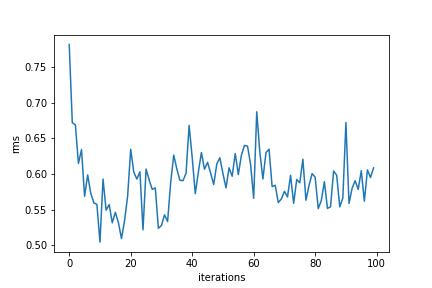
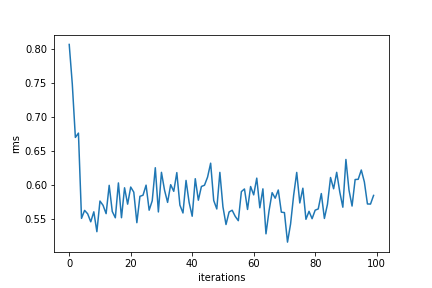
finish TP2

diff --git a/TP2/code/ICP.py b/TP2/code/ICP.py
@@ -143,7 +143,7 @@ def icp_point_to_point(data, ref, max_iter, RMS_threshold):
 
     return data_aligned, R_list, T_list, neighbors_list, rms_list
 
-def icp_point_to_point_stochastic(data, ref, max_iter, RMS_threshold, sampling_limit=1000):
+def icp_point_to_point_stochastic(data, ref, max_iter, RMS_threshold, sampling_limit=1000, final_overlap=1):
     '''
     Iterative closest point algorithm with a point to point strategy.
     Inputs :
@@ -183,14 +183,25 @@ def icp_point_to_point_stochastic(data, ref, max_iter, RMS_threshold, sampling_l
         data_aligned_sampled_indices = np.random.choice(np.arange(data_aligned.shape[1]), size=sampling_limit, replace=False)
         data_aligned_sampled = data_aligned[:, data_aligned_sampled_indices]
         
-        neighborhood_indices = kdtree.query(data_aligned_sampled.T, k=1, return_distance=False).squeeze()
+        distances, neighborhood_indices = kdtree.query(data_aligned_sampled.T, k=1, return_distance=True)
+        distances = distances.squeeze()
+        neighborhood_indices = neighborhood_indices.squeeze()
         neighborhoods = ref[:,neighborhood_indices]
-
-        R, T = best_rigid_transform(data_aligned_sampled, neighborhoods)
+        
+        if final_overlap != 1:
+            nb_indices_to_select = int(len(distances) * final_overlap)
+            kept_indices = np.argpartition(distances, nb_indices_to_select)[:nb_indices_to_select]
+            data_aligned_sampled2 = data_aligned_sampled[:, kept_indices]
+            neighborhoods2 = neighborhoods[:, kept_indices]
+        else:
+            data_aligned_sampled2 = data_aligned_sampled
+            neighborhoods2 = neighborhoods
+        
+        R, T = best_rigid_transform(data_aligned_sampled2, neighborhoods2)
         
         data_aligned = R @ data_aligned + T
 
-        rms = np.sqrt(np.mean(np.linalg.norm(neighborhoods-data_aligned[:,data_aligned_sampled_indices], axis=0)))
+        rms = np.sqrt(np.mean(np.linalg.norm(neighborhoods-data_aligned_sampled, axis=0)))
         
         R_list.append(old_R @ R)
         T_list.append(R @ old_T + T)
@@ -354,13 +365,15 @@ if __name__ == '__main__':
         max_iter = 100
         RMS_threshold = 1e-5
         sampling_limits = [1000, 10000, 50000]
-
+        rms_dict = {}
+        
         # Apply fast ICP for different values of the sampling_limit parameter
         for sampling_limit in sampling_limits:
             print('Sampling_limit = {}'.format(sampling_limit))
             
             data_aligned, R_list, T_list, neighbors_list, rms_list = icp_point_to_point_stochastic(data, ref, max_iter, RMS_threshold, sampling_limit)
-    
+            rms_dict[sampling_limit] = rms_list
+            
             # Plot RMS
             plt.clf()
             plt.plot(rms_list)
@@ -368,7 +381,57 @@ if __name__ == '__main__':
             plt.ylabel('rms')
             plt.savefig('../images/rms_plot_nddc_{}.png'.format(sampling_limit))
             
-            write_ply('../data/nddc_transformed_{}.ply'.format(sampling_limit), [new_data.T], ['x', 'y', 'z'])
+            write_ply('../data/nddc_transformed_{}.ply'.format(sampling_limit), [data_aligned.T], ['x', 'y', 'z'])
             #
             # => To plot something in python use the function plt.plot() to create the figure and 
             #    then plt.show() to display it
+        for k,v in rms_dict.items():
+            plt.plot(v, label=k)
+        plt.legend()
+        plt.savefig('../images/rms_plot_nddc_sampling_limits.png')
+    
+    # If statement to skip this part if wanted
+    if False:
+
+        # Cloud paths
+        NDDC_1_path = '../data/Notre_Dame_Des_Champs_1.ply'
+        NDDC_2_path = '../data/Notre_Dame_Des_Champs_2.ply'
+
+        # Load clouds
+        ref = read_ply(NDDC_1_path)
+        ref = np.vstack((ref['x'], ref['y'], ref['z']))
+        
+        data = read_ply(NDDC_2_path)
+        data = np.vstack((data['x'], data['y'], data['z']))
+        
+        # parameters
+        max_iter = 100
+        RMS_threshold = 1e-5
+        sampling_limit = 10000
+        final_overlaps = [0.1, 0.2, 0.3, 0.4, 0.5, 0.6, 0.7, 0.8, 0.9]
+        rms_dict = {}
+
+        # Apply fast ICP for different values of the sampling_limit parameter
+        for final_overlap in final_overlaps:
+            print('Final Overlap = {}'.format(final_overlap))
+            
+            data_aligned, R_list, T_list, neighbors_list, rms_list = icp_point_to_point_stochastic(data, ref, max_iter, RMS_threshold, sampling_limit, final_overlap)
+            rms_dict[final_overlap] = rms_list
+            
+            # Plot RMS
+            #plt.clf()
+            plt.plot(rms_list, label=final_overlap)
+            plt.xlabel('iterations')
+            plt.ylabel('rms')
+            plt.savefig('../images/rms_plot_nddc_{}_overlap_{}.png'.format(sampling_limit, final_overlap))
+            
+            print('RMS = {}'.format(rms_list[-1]))
+            
+            write_ply('../data/nddc_transformed_{}_overlap_{}.ply'.format(sampling_limit, final_overlap), [data_aligned.T], ['x', 'y', 'z'])
+        
+        for k,v in rms_dict.items():
+            plt.plot(v, label=k)
+        plt.legend()
+        plt.savefig('../images/rms_plot_nddc_{}_overlaps.png'.format(sampling_limit))
+
+
